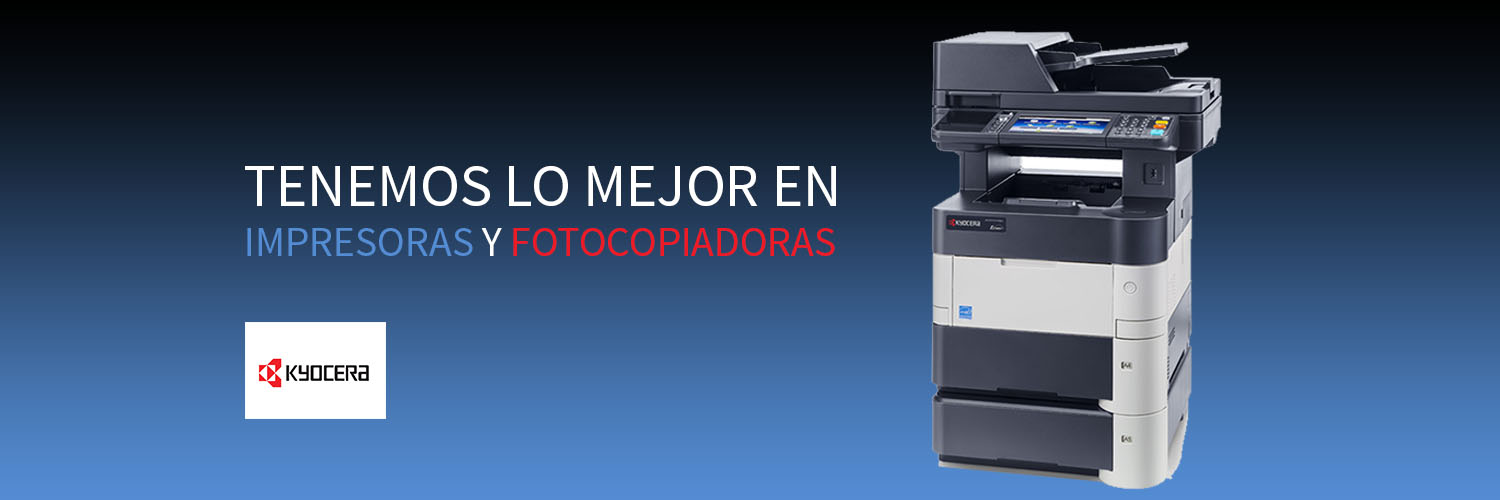
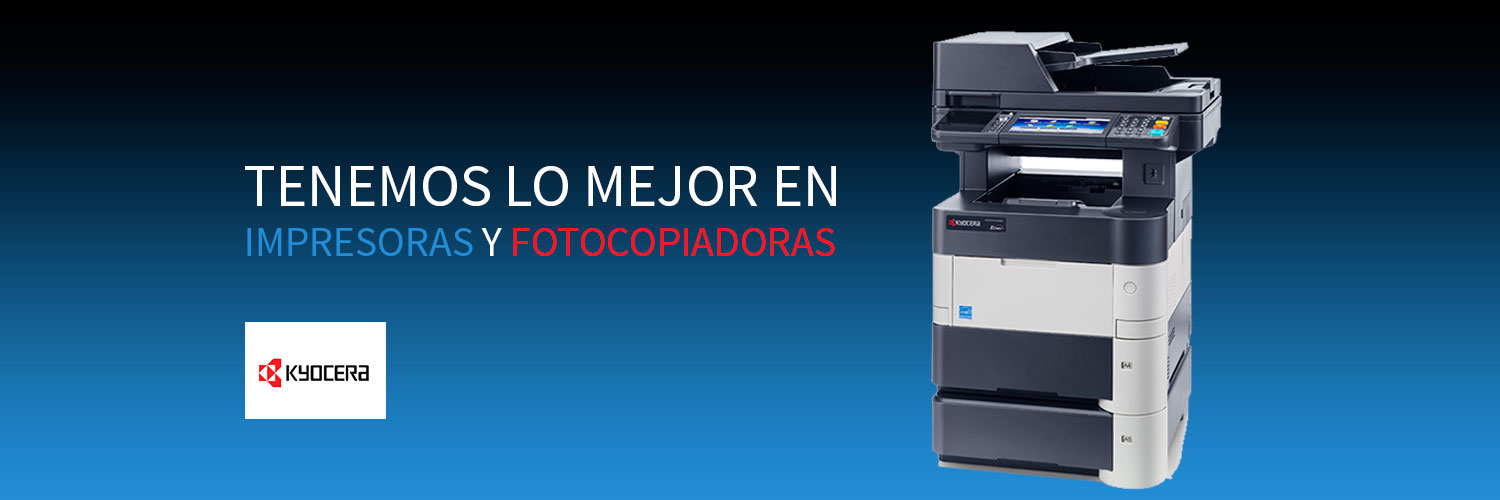
Compresion de archivos

diff --git a/css/styles.css b/css/styles.css
@@ -1,267 +1,1 @@
-body {
-  font-family: "Open Sans", sans-serif;
-}
-
-.menu .navbar-nav .nav-item a {
-  font-size: 1.2em;
-  color: black;
-  font-weight: 400;
-  border-bottom: 2px solid transparent;
-}
-.menu .navbar-nav .nav-item a:hover {
-  border-bottom: 2px solid #548cd3;
-}
-.menu .navbar-nav .nav-item:nth-child(1) a {
-  border-right: 1px solid black;
-  padding-right: 20px;
-  margin-right: 10px;
-}
-
-body {
-  margin-top: 90px;
-}
-
-section {
-  padding: 80px 0;
-}
-
-.red {
-  color: #ff0000;
-}
-
-#carouselImages .carousel-inner img {
-  background-size: cover;
-}
-
-.services {
-  background: #f2f2f2;
-}
-.services .title {
-  margin: 20px 0;
-  font-weight: 700;
-  text-align: center;
-}
-.services .description {
-  text-align: center;
-  font-size: 1.2em;
-  font-weight: 300;
-  line-height: 35px;
-  margin: 20px;
-}
-.services .services {
-  margin: 50px 0;
-  text-align: center;
-}
-.services .services .card {
-  text-align: center;
-  padding-top: 75px;
-  -webkit-transition: all 0.3s ease 0s;
-  -moz-transition: all 0.3s ease 0s;
-  -o-transition: all 0.3s ease 0s;
-  transition: all 0.3s ease 0s;
-}
-.services .services .card img {
-  height: 200px;
-  -webkit-transform: scale(1);
-  -moz-transform: scale(1);
-  -ms-transform: scale(1);
-  -o-transform: scale(1);
-  transform: scale(1);
-  -webkit-transition: all 0.3s ease 0s;
-  -moz-transition: all 0.3s ease 0s;
-  -o-transition: all 0.3s ease 0s;
-  transition: all 0.3s ease 0s;
-}
-.services .services .card .card-body {
-  margin-top: 50px;
-}
-.services .services .card .card-body .card-text {
-  color: #323234;
-  font-weight: 400;
-  font-size: 1.2em;
-  line-height: 30px;
-  overflow: hidden;
-}
-.services .services .card:hover {
-  -webkit-transition: all 0.3s ease 0s;
-  -moz-transition: all 0.3s ease 0s;
-  -o-transition: all 0.3s ease 0s;
-  transition: all 0.3s ease 0s;
-  background: #323234;
-}
-.services .services .card:hover .card-body .card-text {
-  color: white;
-}
-.services .services .card:hover img {
-  -webkit-transition: all 0.3s ease 0s;
-  -moz-transition: all 0.3s ease 0s;
-  -o-transition: all 0.3s ease 0s;
-  transition: all 0.3s ease 0s;
-  -webkit-transform: scale(1.5);
-  -moz-transform: scale(1.5);
-  -ms-transform: scale(1.5);
-  -o-transform: scale(1.5);
-  transform: scale(1.5);
-}
-
-.customer {
-  background: url(../img/printer-bg.png) #4a4a4a;
-  background-repeat: no-repeat;
-  background-size: cover;
-  background-attachment: fixed;
-}
-.customer .title {
-  margin: 20px 0;
-  font-weight: 700;
-  color: white;
-  text-align: center;
-}
-.customer .customers .carousel-item {
-  margin: 100px 0;
-  height: 200px;
-  overflow: hidden;
-}
-.customer .customers .carousel-item .text {
-  color: white;
-  font-size: 2em;
-}
-.customer .customers .carousel-item .company {
-  color: white;
-  text-align: left;
-  margin-top: 20px;
-  font-size: 1.2em;
-  font-style: italic;
-}
-
-.contacto .title {
-  margin: 20px 0;
-  font-weight: 700;
-  color: black;
-  text-align: center;
-}
-.contacto .ubicacion {
-  margin-top: 50px;
-}
-.contacto .ubicacion .card .card-body .card-text .icon {
-  font-size: 30px;
-}
-.contacto .ubicacion .card .card-body .card-text .description {
-  font-size: 0.9em;
-  border-bottom: 1px solid #ccc;
-}
-.contacto .ubicacion .description {
-  font-size: 1.4em;
-  color: #6e6e6e;
-  margin-bottom: 20px;
-}
-.contacto .ubicacion .formulario input[type=text], .contacto .ubicacion .formulario input[type=email], .contacto .ubicacion .formulario textarea {
-  border: 2px solid #cecece;
-  border-radius: 5px;
-  padding: 15px 20px;
-  font-size: 20px;
-  color: #a4a4a4;
-}
-.contacto .ubicacion .formulario input[type=text]:focus, .contacto .ubicacion .formulario input[type=email]:focus, .contacto .ubicacion .formulario textarea:focus {
-  border: 2px solid #548cd3;
-}
-.contacto .ubicacion .formulario input[type=text], .contacto .ubicacion .formulario input[type=email] {
-  width: 49%;
-  margin-bottom: 15px;
-}
-.contacto .ubicacion .formulario textarea {
-  width: 100%;
-  min-width: 100%;
-  max-width: 100%;
-  height: 100px;
-  min-height: 100px;
-  max-height: 300px;
-  margin-bottom: 15px;
-}
-.contacto .ubicacion .formulario .boton {
-  font-weight: 700;
-  background-color: #548cd3;
-  color: white;
-  border: none;
-  font-size: 1.4em;
-  border-radius: 3px;
-  padding: 5px 50px;
-  cursor: pointer;
-}
-.contacto .ubicacion .formulario .boton:hover {
-  background-color: #387bea;
-}
-.contacto .ubicacion .formulario .notice {
-  color: #6e6e6e;
-}
-
-footer {
-  background: #323234;
-  padding: 50px 0;
-  color: white;
-}
-footer .caption {
-  font-size: 1.2em;
-}
-footer .copy {
-  margin-top: 50px;
-}
-
-@media screen and (max-width: 576px) {
-  header nav .menu .navbar-brand img {
-    height: 50px;
-  }
-
-  #carouselImages .carousel-inner .carousel-item img {
-    height: auto;
-  }
-
-  .customer .customers .carousel-item {
-    margin: 50px 0;
-  }
-  .customer .customers .carousel-item .text {
-    text-align: center;
-    font-size: 1em;
-  }
-  .customer .customers .carousel-item .company {
-    font-size: 0.8em;
-  }
-
-  .contacto .ubicacion .card .card-body .card-text .icon {
-    font-size: 20px;
-  }
-  .contacto .ubicacion .description {
-    margin-top: 20px;
-    text-align: center;
-  }
-  .contacto .ubicacion .formulario {
-    margin: 10px;
-  }
-  .contacto .ubicacion .formulario input[type=text], .contacto .ubicacion .formulario input[type=email] {
-    width: 100%;
-  }
-  .contacto .ubicacion .formulario .notice {
-    font-size: 0.8em;
-  }
-
-  footer .caption {
-    font-size: 1em;
-    margin-top: 50px;
-  }
-  footer .copy {
-    font-size: 0.8em;
-  }
-}
-@media screen and (max-width: 768px) {
-  .customer .customers .carousel-item {
-    margin: 50px 0;
-  }
-  .customer .customers .carousel-item .text {
-    text-align: center;
-    font-size: 1em;
-  }
-  .customer .customers .carousel-item .company {
-    font-size: 0.8em;
-  }
-}
-
-/*# sourceMappingURL=styles.css.map */
+body{font-family:"Open Sans",sans-serif}.menu .navbar-nav .nav-item a{font-size:1.2em;color:#000;font-weight:400;border-bottom:2px solid transparent}.menu .navbar-nav .nav-item a:hover{border-bottom:2px solid #548cd3}.menu .navbar-nav .nav-item:nth-child(1) a{border-right:1px solid #000;padding-right:20px;margin-right:10px}body{margin-top:90px}section{padding:80px 0}.red{color:red}#carouselImages .carousel-inner img{background-size:cover}.services{background:#f2f2f2}.services .title{margin:20px 0;font-weight:700;text-align:center}.services .description{text-align:center;font-size:1.2em;font-weight:300;line-height:35px;margin:20px}.services .services{margin:50px 0;text-align:center}.services .services .card{text-align:center;padding-top:75px;-webkit-transition:all .3s ease 0s;-moz-transition:all .3s ease 0s;-o-transition:all .3s ease 0s;transition:all .3s ease 0s}.services .services .card img{height:200px;-webkit-transform:scale(1);-moz-transform:scale(1);-ms-transform:scale(1);-o-transform:scale(1);transform:scale(1);-webkit-transition:all .3s ease 0s;-moz-transition:all .3s ease 0s;-o-transition:all .3s ease 0s;transition:all .3s ease 0s}.services .services .card .card-body{margin-top:50px}.services .services .card .card-body .card-text{color:#323234;font-weight:400;font-size:1.2em;line-height:30px;overflow:hidden}.services .services .card:hover{-webkit-transition:all .3s ease 0s;-moz-transition:all .3s ease 0s;-o-transition:all .3s ease 0s;transition:all .3s ease 0s;background:#323234}.services .services .card:hover .card-body .card-text{color:#fff}.services .services .card:hover img{-webkit-transition:all .3s ease 0s;-moz-transition:all .3s ease 0s;-o-transition:all .3s ease 0s;transition:all .3s ease 0s;-webkit-transform:scale(1.5);-moz-transform:scale(1.5);-ms-transform:scale(1.5);-o-transform:scale(1.5);transform:scale(1.5)}.customer{background:url(../img/printer-bg.jpg) #4a4a4a;background-repeat:no-repeat;background-size:cover;background-attachment:fixed}.customer .title{margin:20px 0;font-weight:700;color:#fff;text-align:center}.customer .customers .carousel-item{margin:100px 0;height:200px;overflow:hidden}.customer .customers .carousel-item .text{color:#fff;font-size:2em}.customer .customers .carousel-item .company{color:#fff;text-align:left;margin-top:20px;font-size:1.2em;font-style:italic}.contacto .title{margin:20px 0;font-weight:700;color:#000;text-align:center}.contacto .ubicacion{margin-top:50px}.contacto .ubicacion .card .card-body .card-text .icon{font-size:30px}.contacto .ubicacion .card .card-body .card-text .description{font-size:.9em;border-bottom:1px solid #ccc}.contacto .ubicacion .description{font-size:1.4em;color:#6e6e6e;margin-bottom:20px}.contacto .ubicacion .formulario input[type=text],.contacto .ubicacion .formulario input[type=email],.contacto .ubicacion .formulario textarea{border:2px solid #cecece;border-radius:5px;padding:15px 20px;font-size:20px;color:#a4a4a4}.contacto .ubicacion .formulario input[type=text]:focus,.contacto .ubicacion .formulario input[type=email]:focus,.contacto .ubicacion .formulario textarea:focus{border:2px solid #548cd3}.contacto .ubicacion .formulario input[type=text],.contacto .ubicacion .formulario input[type=email]{width:49%;margin-bottom:15px}.contacto .ubicacion .formulario textarea{width:100%;min-width:100%;max-width:100%;height:100px;min-height:100px;max-height:300px;margin-bottom:15px}.contacto .ubicacion .formulario .boton{font-weight:700;background-color:#548cd3;color:#fff;border:none;font-size:1.4em;border-radius:3px;padding:5px 50px;cursor:pointer}.contacto .ubicacion .formulario .boton:hover{background-color:#387bea}.contacto .ubicacion .formulario .notice{color:#6e6e6e}footer{background:#323234;padding:50px 0;color:#fff}footer .caption{font-size:1.2em}footer .copy{margin-top:50px}@media screen and (max-width: 576px){header nav .menu .navbar-brand img{height:50px}#carouselImages .carousel-inner .carousel-item img{height:auto}.customer .customers .carousel-item{margin:50px 0}.customer .customers .carousel-item .text{text-align:center;font-size:1em}.customer .customers .carousel-item .company{font-size:.8em}.contacto .ubicacion .card .card-body .card-text .icon{font-size:20px}.contacto .ubicacion .description{margin-top:20px;text-align:center}.contacto .ubicacion .formulario{margin:10px}.contacto .ubicacion .formulario input[type=text],.contacto .ubicacion .formulario input[type=email]{width:100%}.contacto .ubicacion .formulario .notice{font-size:.8em}footer .caption{font-size:1em;margin-top:50px}footer .copy{font-size:.8em}}@media screen and (max-width: 768px){.customer .customers .carousel-item{margin:50px 0}.customer .customers .carousel-item .text{text-align:center;font-size:1em}.customer .customers .carousel-item .company{font-size:.8em}}/*# sourceMappingURL=styles.css.map */

diff --git a/index.html b/index.html
@@ -17,12 +17,6 @@
 	<meta name="designer" content="Ofitec Colombia" />
     <meta name="publisher" content="Ofitec Colombia" />
     <link rel="shortcut icon" href="img/logo.jpg" />
-
-    <link href="https://fonts.googleapis.com/css?family=Open+Sans:300,400,700" rel="stylesheet">
-    <link rel="stylesheet" href="https://stackpath.bootstrapcdn.com/bootstrap/4.1.3/css/bootstrap.min.css">
-    <link rel="stylesheet" type="text/css" href="https://cdnjs.cloudflare.com/ajax/libs/font-awesome/4.6.3/css/font-awesome.min.css"
-        media="none" onload="if(media!='all')media='all'">
-    <link rel="stylesheet" href="css/styles.css">
 </head>
 
 <body>
@@ -72,10 +66,10 @@
                     <img class="d-block w-100" src="img/ofitec-1.jpg" alt="First slide">
                 </div>
                 <div class="carousel-item">
-                    <img class="d-block w-100" src="img/ofitec-3.png" alt="Second slide">
+                    <img class="d-block w-100" src="img/ofitec-3.jpg" alt="Second slide">
                 </div>
                 <div class="carousel-item">
-                    <img class="d-block w-100" src="img/ofitec-2.png" alt="Third slide">
+                    <img class="d-block w-100" src="img/ofitec-2.jpg" alt="Third slide">
                 </div>
             </div>
             <a class="carousel-control-prev" href="#carouselImages" role="button" data-slide="prev">
@@ -108,7 +102,7 @@
                     <div class="row">
                         <div class="col-12 col-sm-6 col-md-4">
                             <div class="card mb-4">
-                                <a href="javascript:void(0);"><img class="img-thumbnail" src="img/service-1.png"
+                                <a href="javascript:void(0);"><img class="img-thumbnail" src="img/service-1.jpg"
                                         alt=""></a>
                                 <div class="card-body">
                                     <div class="card-text">
@@ -120,7 +114,7 @@
                         </div>
                         <div class="col-12 col-sm-6 col-md-4">
                             <div class="card mb-4">
-                                <a href="javascript:void(0);"><img class="img-thumbnail" src="img/service-2.png"
+                                <a href="javascript:void(0);"><img class="img-thumbnail" src="img/service-2.jpg"
                                         alt=""></a>
                                 <div class="card-body">
                                     <div class="card-text">
@@ -132,7 +126,7 @@
 
                         <div class="col-12 col-sm-6 col-md-4">
                             <div class="card mb-4">
-                                <a href="javascript:void(0);"><img class="img-thumbnail" src="img/service-3.png"
+                                <a href="javascript:void(0);"><img class="img-thumbnail" src="img/service-3.jpg"
                                         alt=""></a>
                                 <div class="card-body">
                                     <div class="card-text">
@@ -145,7 +139,7 @@
 
                         <div class="col-12 col-sm-6 col-md-4">
                             <div class="card mb-4">
-                                <a href="javascript:void(0);"><img class="img-thumbnail" src="img/service-4.png"
+                                <a href="javascript:void(0);"><img class="img-thumbnail" src="img/service-4.jpg"
                                         alt=""></a>
                                 <div class="card-body">
                                     <div class="card-text">
@@ -158,7 +152,7 @@
 
                         <div class="col-12 col-sm-6 col-md-4">
                             <div class="card mb-4">
-                                <a href="javascript:void(0);"><img class="img-thumbnail" src="img/service-5.png"
+                                <a href="javascript:void(0);"><img class="img-thumbnail" src="img/service-5.jpg"
                                         alt=""></a>
                                 <div class="card-body">
                                     <div class="card-text">
@@ -170,7 +164,7 @@
 
                         <div class="col-12 col-sm-6 col-md-4">
                             <div class="card mb-4">
-                                <a href="javascript:void(0);"><img class="img-thumbnail" src="img/service-6.png"
+                                <a href="javascript:void(0);"><img class="img-thumbnail" src="img/service-6.jpg"
                                         alt=""></a>
                                 <div class="card-body">
                                     <div class="card-text">
@@ -344,9 +338,13 @@
         </div>
     </footer>
 
+    <link rel="stylesheet" href="https://fonts.googleapis.com/css?family=Open+Sans:300,400,700" media="all">
+    <link rel="stylesheet" href="https://cdnjs.cloudflare.com/ajax/libs/twitter-bootstrap/4.1.3/css/bootstrap.min.css" media="all">
+    <link rel="stylesheet" type="text/css" href="https://cdnjs.cloudflare.com/ajax/libs/font-awesome/4.6.3/css/font-awesome.min.css" media="all">
+    <link rel="stylesheet" href="css/styles.css" media="all">
     <script src="https://ajax.googleapis.com/ajax/libs/jquery/3.3.1/jquery.min.js"></script>
-    <script src="https://stackpath.bootstrapcdn.com/bootstrap/4.1.3/js/bootstrap.min.js"></script>
-    <script src="js/script.js"></script>
+    <script src="https://cdnjs.cloudflare.com/ajax/libs/twitter-bootstrap/4.1.3/js/bootstrap.min.js"></script>
+    <script>$(function(){$("a.page-scroll").on("click",function(t){var o=$(this),e=$(o.attr("href"));$("html, body").animate({scrollTop:e.offset().top},1e3),t.preventDefault()})});</script>
 </body>
 
 </html>

diff --git a/css/sass/_main.sass b/css/sass/_main.sass
@@ -74,7 +74,7 @@ section
                     transform: scale(1.5)
 
 .customer
-    background: url(../img/printer-bg.png) #4a4a4a
+    background: url(../img/printer-bg.jpg) #4a4a4a
     background-repeat: no-repeat
     background-size: cover
     background-attachment: fixed
